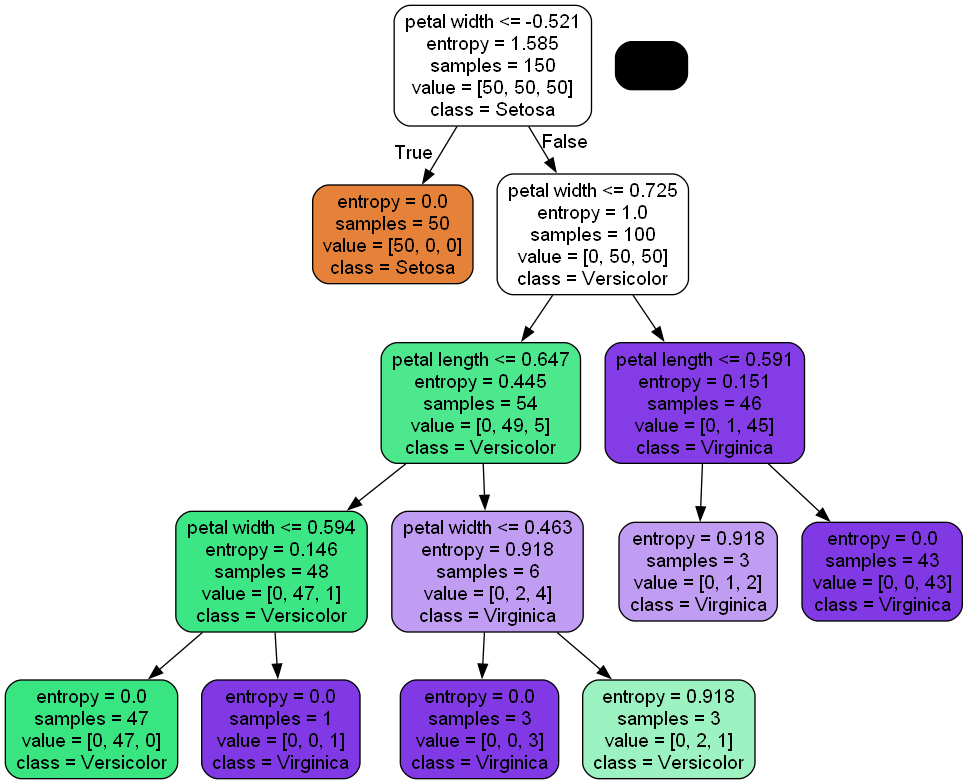
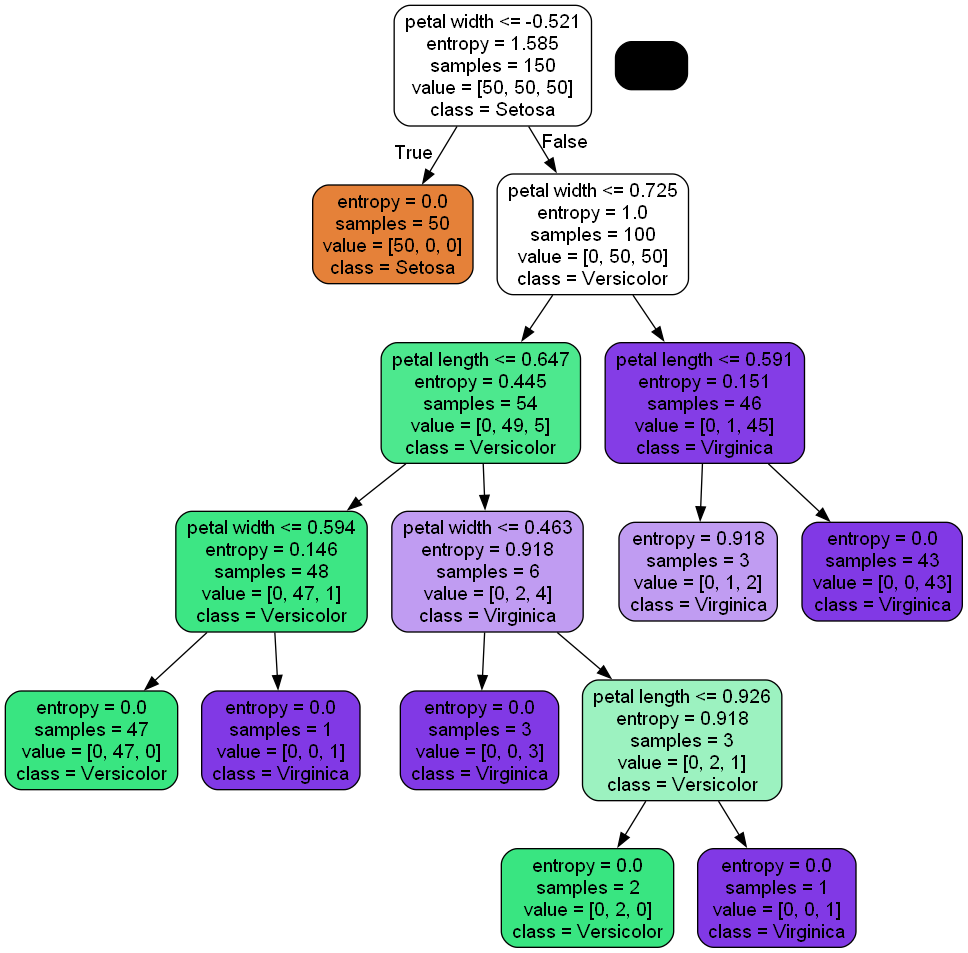
treedecision image for iris dataset

diff --git a/non_linear/decision tree dot visualisation.py b/non_linear/decision tree dot visualisation.py
@@ -4,9 +4,9 @@ from sklearn.tree import DecisionTreeClassifier
 from tools import load_data_iris
 import os
 os.environ["PATH"] += os.pathsep + 'C:/Program Files/Graphviz/bin/'
-tree = DecisionTreeClassifier(criterion='entropy',max_depth=4, random_state=1)
+tree = DecisionTreeClassifier(criterion='',max_depth=4, random_state=1)
 X_train_std, X_test_std, y_train, y_test, X_combined_std , y_combined = load_data_iris()
 tree.fit(X_combined_std, y_combined)
 dot_data = export_graphviz(tree,filled=True,rounded=True,class_names=['Setosa','Versicolor','Virginica'],feature_names=['petal length','petal width'], out_file=None)
 graph = graph_from_dot_data(dot_data)
-graph.write_png('treedecision classifier.png')
+graph.write_png('tree.png')
